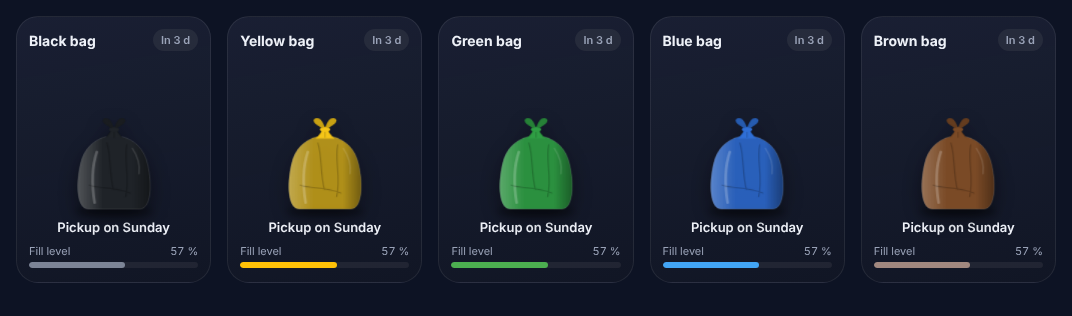
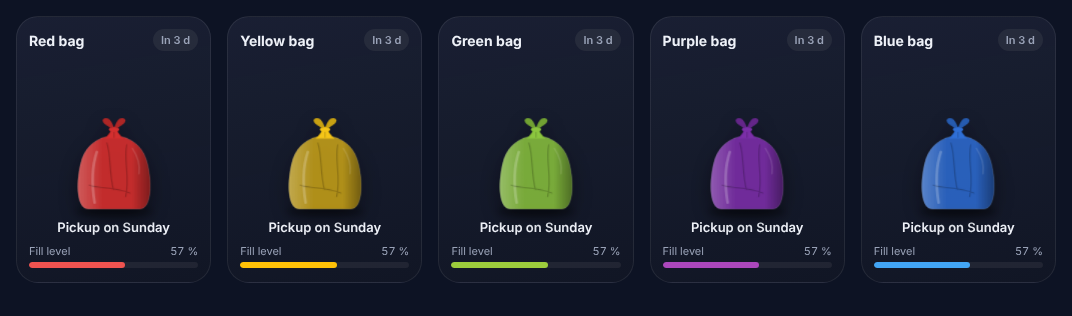
Australian bin colours: green is FOGO, burgundy removed, red/yellow/green first
- green takes the lime-green lid, paint and bag colours, and shows organics when full;
  lime is an alias of green
- burgundy removed
- Colour order everywhere (editor, errors, README): red, yellow, green, purple, blue,
  then grey, black, brown
- README: Australian lid table; previews regenerated with red, yellow, green, purple, blue

Claude-Session: https://claude.ai/code/session_01EsChEkM8tx1Ci1hByzURsj

diff --git a/dist/bin-collection-card.js b/dist/bin-collection-card.js
@@ -6,6 +6,11 @@ var BCC_IMG = {
[1 lines of base64/hex data omitted]
 };
 var BCC_BINS = {
+  red: { img: "yellow", color: "#ef5350", content: "rubbish", paint: "#d32f2f", lid: "hue-rotate(-62deg) saturate(2.6) brightness(.72)" },
+  yellow: { img: "yellow", color: "#ffc107", content: "recycling", paint: "#f5b400" },
+  green: { img: "yellow", color: "#9ccc3c", content: "organics", paint: "#8cc63f", lid: "hue-rotate(40deg) saturate(1.1) brightness(1)" },
+  purple: { img: "yellow", color: "#ab47bc", content: "glass", paint: "#7b2fa8", lid: "hue-rotate(-140deg) saturate(1.2) brightness(.7)" },
+  blue: { img: "yellow", color: "#42a5f5", content: "paper", paint: "#1e6fd9", lid: "hue-rotate(165deg) saturate(1.1) brightness(.85)" },
   grey: { img: "grey", color: "#9ea6b8", content: "rubbish" },
   black: {
     img: "grey",
@@ -14,28 +19,19 @@ var BCC_BINS = {
     body: "brightness(.42) contrast(1.15)",
     lid: "brightness(.42) contrast(1.15)"
   },
-  yellow: { img: "yellow", color: "#ffc107", content: "recycling", paint: "#f5b400" },
-  green: { img: "yellow", color: "#4caf50", content: "glass", paint: "#2f9e44", lid: "hue-rotate(68deg) saturate(.85) brightness(.8)" },
-  blue: { img: "yellow", color: "#42a5f5", content: "paper", paint: "#1e6fd9", lid: "hue-rotate(165deg) saturate(1.1) brightness(.85)" },
-  brown: { img: "yellow", color: "#a1887f", content: "organics", paint: "#8a5a2b", lid: "hue-rotate(-14deg) saturate(.75) brightness(.5)" },
-  red: { img: "yellow", color: "#ef5350", content: "rubbish", paint: "#d32f2f", lid: "hue-rotate(-62deg) saturate(2.6) brightness(.72)" },
-  purple: { img: "yellow", color: "#ab47bc", content: "glass", paint: "#7b2fa8", lid: "hue-rotate(-140deg) saturate(1.2) brightness(.7)" },
-  burgundy: { img: "yellow", color: "#b0415a", content: "organics", paint: "#7a1f35", paintBody: "brightness(.55)", lid: "hue-rotate(-75deg) saturate(1.5) brightness(.45)" },
-  lime: { img: "yellow", color: "#9ccc3c", content: "organics", paint: "#8cc63f", lid: "hue-rotate(40deg) saturate(1.1) brightness(1)" }
+  brown: { img: "yellow", color: "#a1887f", content: "organics", paint: "#8a5a2b", lid: "hue-rotate(-14deg) saturate(.75) brightness(.5)" }
 };
 var BCC_BODY_RATIO = { grey: "190/295", yellow: "190/291" };
 var BCC_WHEEL_HOLE = "radial-gradient(ellipse 10% 15% at 89% 82%, transparent 96%, #000 100%)";
 var BCC_BAG_COLORS = {
+  red: ["#d32f2f", 0.92],
+  yellow: ["#f5c518", 0.7],
+  green: ["#8cc63f", 0.85],
+  purple: ["#7b2fa8", 0.9],
+  blue: ["#2f6fd6", 0.85],
   grey: ["#5b6270", 1],
   black: ["#1f2328", 1],
-  yellow: ["#f5c518", 0.7],
-  green: ["#2f9e44", 0.9],
-  blue: ["#2f6fd6", 0.85],
-  brown: ["#7a4a26", 1],
-  red: ["#d32f2f", 0.92],
-  purple: ["#7b2fa8", 0.9],
-  burgundy: ["#7a1f35", 1],
-  lime: ["#8cc63f", 0.85]
+  brown: ["#7a4a26", 1]
 };
 var bagSvg = (col, op, content) => `<svg class="bagsvg" viewBox="0 0 150 253" aria-hidden="true">
  <defs><clipPath id="bccbag"><path d="M28 250 C8 248 6 196 14 150 C20 112 40 92 60 86 L90 86 C110 92 130 112 136 150 C144 196 142 248 122 250 Z"/></clipPath>
@@ -119,18 +115,16 @@ var table = (groups) => {
   return out;
 };
 var BIN_ALIASES = table({
+  red: [],
+  yellow: [],
+  green: ["lime"],
+  purple: ["violet", "mauve"],
+  blue: [],
   grey: ["gray"],
   black: [],
-  yellow: [],
-  green: [],
-  blue: [],
-  brown: [],
-  red: [],
-  purple: ["violet", "mauve"],
-  burgundy: ["maroon"],
-  lime: ["lime_green", "lime-green"]
+  brown: []
 });
-var BINS = ["grey", "black", "yellow", "green", "blue", "brown", "red", "purple", "burgundy", "lime"];
+var BINS = ["red", "yellow", "green", "purple", "blue", "grey", "black", "brown"];
 var CONTAINER_ALIASES = table({
   wheelie_bin: ["bin", "wheelie"],
   bag: ["bags"],
@@ -354,8 +348,8 @@ function eventDays(events) {
 // src/lang/en.json
 var en_default = {
   card: {
-    bin: { grey: "Grey bin", black: "Black bin", yellow: "Yellow bin", green: "Green bin", blue: "Blue bin", brown: "Brown bin", red: "Red bin", purple: "Purple bin", burgundy: "Burgundy bin", lime: "Lime green bin" },
-    bag: { grey: "Grey bag", black: "Black bag", yellow: "Yellow bag", green: "Green bag", blue: "Blue bag", brown: "Brown bag", red: "Red bag", purple: "Purple bag", burgundy: "Burgundy bag", lime: "Lime green bag" },
+    bin: { red: "Red bin", yellow: "Yellow bin", green: "Green bin", purple: "Purple bin", blue: "Blue bin", grey: "Grey bin", black: "Black bin", brown: "Brown bin" },
+    bag: { red: "Red bag", yellow: "Yellow bag", green: "Green bag", purple: "Purple bag", blue: "Blue bag", grey: "Grey bag", black: "Black bag", brown: "Brown bag" },
     bulky: "Bulky waste",
     emptied: "Emptied",
     emptied_txt: "Emptied today ✅",
@@ -742,7 +736,7 @@ var BinCollectionCard = class extends HTMLElement {
     const content = BCC_CONTENT[c.content] || BCC_CONTENT[B.content];
     const img = String(c.image || "").trim();
     const paint = c.full_color && !this._bag && !this._bulky && !img ? c.body_color || B.paint || "" : "";
-    const bodyF = c.body_filter || paint && !c.body_color && B.paintBody || B.body || "", lidF = c.lid_filter || B.lid || "";
+    const bodyF = c.body_filter || B.body || "", lidF = c.lid_filter || B.lid || "";
     const [bagCol, bagOp] = BCC_BAG_COLORS[this._bin];
     const bodyImg = BCC_IMG[B.img].body;
     if (!this.shadowRoot) this.attachShadow({ mode: "open" });

diff --git a/src/assets.js b/src/assets.js
@@ -7,17 +7,15 @@ export const BCC_IMG = {
 
 /* Bin colours: base image + CSS filters */
 export const BCC_BINS = {
+  red:  { img: 'yellow', color: '#ef5350', content: 'rubbish', paint: '#d32f2f', lid: 'hue-rotate(-62deg) saturate(2.6) brightness(.72)' },
+  yellow:  { img: 'yellow', color: '#ffc107', content: 'recycling', paint: '#f5b400' },
+  green:  { img: 'yellow', color: '#9ccc3c', content: 'organics', paint: '#8cc63f', lid: 'hue-rotate(40deg) saturate(1.1) brightness(1)' },
+  purple: { img: 'yellow', color: '#ab47bc', content: 'glass', paint: '#7b2fa8', lid: 'hue-rotate(-140deg) saturate(1.2) brightness(.7)' },
+  blue:  { img: 'yellow', color: '#42a5f5', content: 'paper', paint: '#1e6fd9', lid: 'hue-rotate(165deg) saturate(1.1) brightness(.85)' },
   grey:  { img: 'grey', color: '#9ea6b8', content: 'rubbish' },
   black:  { img: 'grey', color: '#7c8496', content: 'rubbish',
             body: 'brightness(.42) contrast(1.15)', lid: 'brightness(.42) contrast(1.15)' },
-  yellow:  { img: 'yellow', color: '#ffc107', content: 'recycling', paint: '#f5b400' },
-  green:  { img: 'yellow', color: '#4caf50', content: 'glass', paint: '#2f9e44', lid: 'hue-rotate(68deg) saturate(.85) brightness(.8)' },
-  blue:  { img: 'yellow', color: '#42a5f5', content: 'paper', paint: '#1e6fd9', lid: 'hue-rotate(165deg) saturate(1.1) brightness(.85)' },
   brown: { img: 'yellow', color: '#a1887f', content: 'organics', paint: '#8a5a2b', lid: 'hue-rotate(-14deg) saturate(.75) brightness(.5)' },
-  red:  { img: 'yellow', color: '#ef5350', content: 'rubbish', paint: '#d32f2f', lid: 'hue-rotate(-62deg) saturate(2.6) brightness(.72)' },
-  purple: { img: 'yellow', color: '#ab47bc', content: 'glass', paint: '#7b2fa8', lid: 'hue-rotate(-140deg) saturate(1.2) brightness(.7)' },
-  burgundy: { img: 'yellow', color: '#b0415a', content: 'organics', paint: '#7a1f35', paintBody: 'brightness(.55)', lid: 'hue-rotate(-75deg) saturate(1.5) brightness(.45)' },
-  lime: { img: 'yellow', color: '#9ccc3c', content: 'organics', paint: '#8cc63f', lid: 'hue-rotate(40deg) saturate(1.1) brightness(1)' },
 };
 /* body image proportions (width / height), to fit the full_color paint */
 export const BCC_BODY_RATIO = { grey: '190/295', yellow: '190/291' };
@@ -26,9 +24,8 @@ export const BCC_WHEEL_HOLE = 'radial-gradient(ellipse 10% 15% at 89% 82%, trans
 
 /* ---- rubbish bag: colour, and translucent or not ---- */
 export const BCC_BAG_COLORS = {
-  grey: ['#5b6270', 1], black: ['#1f2328', 1], yellow: ['#f5c518', .7], green: ['#2f9e44', .9],
-  blue: ['#2f6fd6', .85], brown: ['#7a4a26', 1], red: ['#d32f2f', .92],
-  purple: ['#7b2fa8', .9], burgundy: ['#7a1f35', 1], lime: ['#8cc63f', .85],
+  red: ['#d32f2f', .92], yellow: ['#f5c518', .7], green: ['#8cc63f', .85], purple: ['#7b2fa8', .9],
+  blue: ['#2f6fd6', .85], grey: ['#5b6270', 1], black: ['#1f2328', 1], brown: ['#7a4a26', 1],
 };
 /* tied bag seen from the front, in the same 150 × 253 frame as the bin; contents show through a translucent bag */
 export const bagSvg = (col, op, content) => `<svg class="bagsvg" viewBox="0 0 150 253" aria-hidden="true">

diff --git a/src/bin-collection-card.js b/src/bin-collection-card.js
@@ -115,8 +115,7 @@ class BinCollectionCard extends HTMLElement {
     // body's shape, tints the grey while keeping its shading and highlights (mix-blend-mode: color).
     const img = String(c.image || '').trim();
     const paint = c.full_color && !this._bag && !this._bulky && !img ? (c.body_color || B.paint || '') : '';
-    // dark colours (burgundy) darken the grey body under the paint, which only sets hue and saturation
-    const bodyF = c.body_filter || (paint && !c.body_color && B.paintBody) || B.body || '', lidF = c.lid_filter || B.lid || '';
+    const bodyF = c.body_filter || B.body || '', lidF = c.lid_filter || B.lid || '';
     const [bagCol, bagOp] = BCC_BAG_COLORS[this._bin];
     const bodyImg = BCC_IMG[B.img].body;
     if (!this.shadowRoot) this.attachShadow({ mode: 'open' });

diff --git a/src/normalize.js b/src/normalize.js
@@ -6,19 +6,18 @@ const table = groups => {
   return out;
 };
 
+/* Display order: the three bins every Australian household has, then glass, paper, others */
 export const BIN_ALIASES = table({
+  red: [],
+  yellow: [],
+  green: ['lime'],
+  purple: ['violet', 'mauve'],
+  blue: [],
   grey: ['gray'],
   black: [],
-  yellow: [],
-  green: [],
-  blue: [],
   brown: [],
-  red: [],
-  purple: ['violet', 'mauve'],
-  burgundy: ['maroon'],
-  lime: ['lime_green', 'lime-green'],
 });
-export const BINS = ['grey', 'black', 'yellow', 'green', 'blue', 'brown', 'red', 'purple', 'burgundy', 'lime'];
+export const BINS = ['red', 'yellow', 'green', 'purple', 'blue', 'grey', 'black', 'brown'];
 
 export const CONTAINER_ALIASES = table({
   wheelie_bin: ['bin', 'wheelie'],

diff --git a/README.md b/README.md
@@ -23,7 +23,7 @@ Animated Lovelace card for bin collection days: the bin fills up over the cycle,
 | **Pickup** | pickup day, before the truck | the bin hops |
 | **Emptied** | pickup day, after the truck | sparkles ✨, green border |
 
-- 10 colours: `grey`, `black`, `yellow`, `green`, `blue`, `brown`, `red`, `purple`, `burgundy`, `lime`
+- 8 colours: `red`, `yellow`, `green`, `purple`, `blue`, `grey`, `black`, `brown`
 - **Fully coloured bin** (`full_color: true`) or coloured lid only
 - **Rubbish bag** (`container: bag`) and **bulky waste** pile (`container: bulky`), or your own picture (`image`)
 - Schedules: weekly, **every N weeks from a start date** (fortnightly, four-weekly…), even/odd weeks, once a month, seasonal months
@@ -58,12 +58,19 @@ hour: 6                   # time the truck comes
 ```
 
 ### Australian bins
-Typical lids: `red` general waste, `yellow` recycling, `lime` garden or FOGO, `burgundy` food / FOGO, `purple` glass, `blue` paper. Councils differ, so pick the colour of your lid and set `content` for what goes in it.
+| Lid | `bin` | What goes in it | Shows when full |
+|---|---|---|---|
+| Red | `red` | General waste / landfill | rubbish bags |
+| Yellow | `yellow` | Mixed recycling: glass bottles and jars, hard plastics, cans, paper and cardboard | recycling |
+| Green | `green` | Food and garden organics (FOGO) | organics |
+| Purple | `purple` | Glass recycling | glass bottles |
+| Blue | `blue` | Paper and cardboard (mostly commercial) | paper and cardboard |
+
+Councils differ: if yours uses a colour for something else, set `content` (`rubbish`, `recycling`, `organics`, `glass`, `paper`) and `name`.
 ```yaml
 type: custom:bin-collection-card
-bin: lime
+bin: green
 name: FOGO
-content: organics
 start_date: 2026-11-04
 every: 2
 full_color: true
@@ -226,7 +233,7 @@ cards:
 
 | Option | Type | Default | Description |
 |---|---|---|---|
-| `bin` | text | **required** (except bulky) | `grey`, `black`, `yellow`, `green`, `blue`, `brown`, `red`, `purple`, `burgundy`, `lime` |
+| `bin` | text | **required** (except bulky) | `red`, `yellow`, `green`, `purple`, `blue`, `grey`, `black`, `brown` |
 | `name` | text | from the colour | Card title |
 | `days` | list | — | Pickup days: numbers (0 = Monday) or names (`tuesday`, `tue`). Required unless `start_date`, `month_day` or `entity` is set |
 | `start_date` | date | — | A known pickup date; pickups repeat every `every` weeks from it. Overrides `weeks` |
